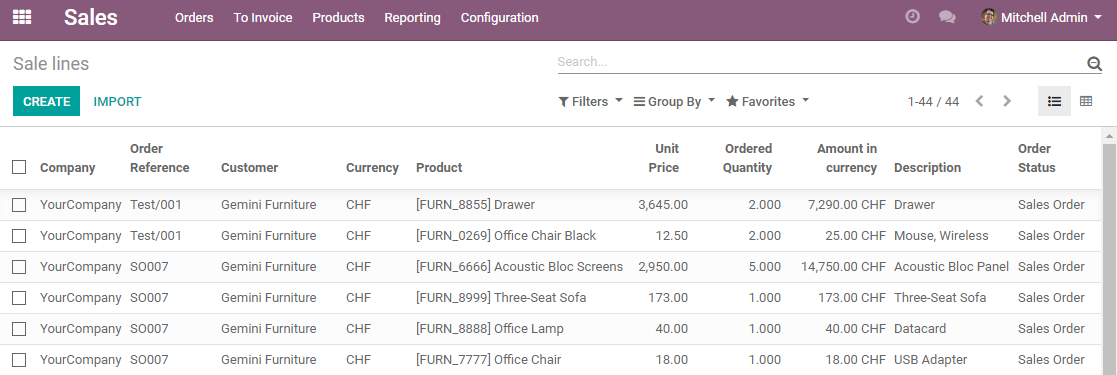
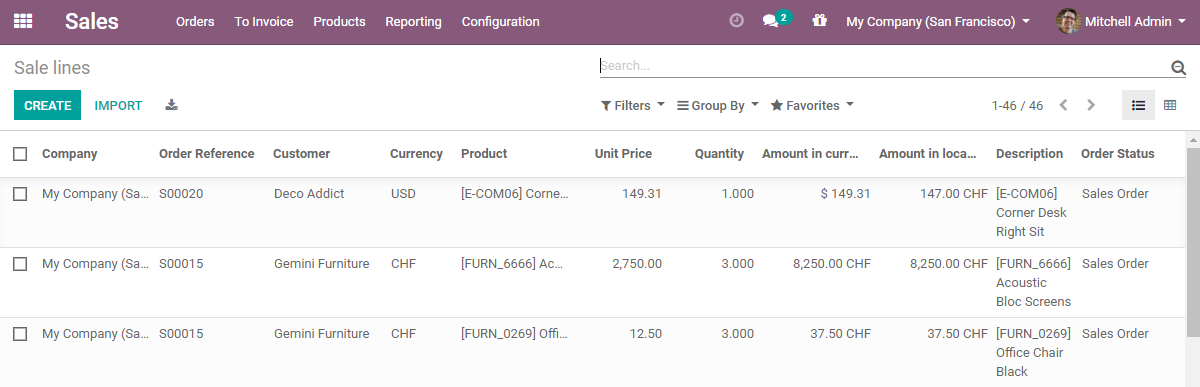
Added corrections

diff --git a/prisme_so_lines_xa/static/description/index.html b/prisme_so_lines_xa/static/description/index.html
@@ -28,6 +28,7 @@
 						<ul>
 							<li>Contains a list, form and pivot view.</li>
 							<li>Displays sale line informations.</li>
+							<li>A field "Amount in local currency" to support multi-currency is added.</li>
 						</ul>
 				</ul> 
             </p>
@@ -68,7 +69,7 @@
  		<div class="oe_span12">
        		Prerequisites :
        		<ul>
-       			<li>Nothing</li>
+       			<li>If you have activated multi-currency, make sure to update your currency rates before installing the module.</li>
        		</ul>
  		</div>
  		<div class="oe_span12">

diff --git a/prisme_so_lines_xa/models/sale.py b/prisme_so_lines_xa/models/sale.py
@@ -18,9 +18,24 @@
 #
 ##########################################################################
 
-from odoo import models, fields
+from odoo import models, fields, api
 
 class SaleOrderLine(models.Model):
     _inherit = 'sale.order.line'
     
     product_image = fields.Image('Product Image', related="product_id.image_1024", store=False, readonly=False)
+    amount_local_currency = fields.Monetary(string='Amount in local currency', store=True, readonly=True, compute='_amount_local')
+    local_currency = fields.Many2one(string="Local Currency", related='company_id.currency_id',store=True)
+    
+    @api.depends('price_subtotal')
+    def _amount_local(self):
+        for record in self:
+            company_currency = record.company_id.currency_id.id
+            amount_local_currency = record.price_subtotal
+            
+            if record.currency_id.id != company_currency:
+                rate = record.currency_id.rate
+                if rate and rate != 0.0:
+                    amount_local_currency = record.price_subtotal / rate 
+                
+            record.amount_local_currency = amount_local_currency

diff --git a/prisme_so_lines_xa/__manifest__.py b/prisme_so_lines_xa/__manifest__.py
@@ -20,7 +20,7 @@
 ##########################################################################
 {
     "name": "Prisme SO Lines",
-    "version": "2020-04-29 11:00",
+    "version": "2020-04-30 12:30",
     "author": "Prisme Solutions Informatique SA",
     "category": "Generic Modules/Accounting",
     "summary": "sale orders lines list",
